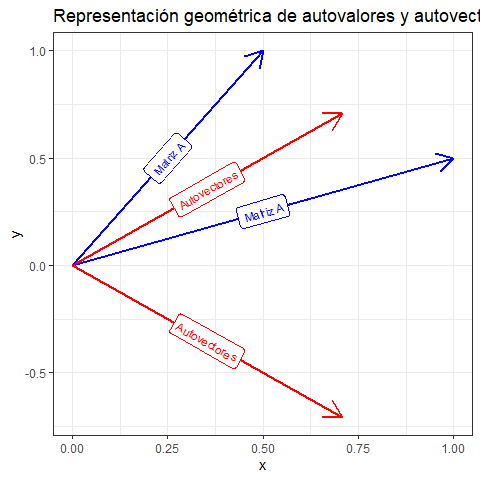
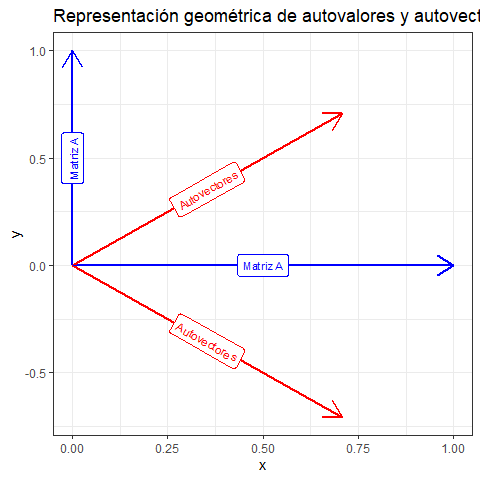
:zap: autovectores gráficamente

diff --git a/01_autovalores_autovectores/01_autovalores_autovectores.md b/01_autovalores_autovectores/01_autovalores_autovectores.md
@@ -27,22 +27,25 @@ A x−λ x = 0
 
 ``` r
 A <- t(matrix(c(0.5, 1, 1, 0.5), nrow = 2, ncol = 2))
+
+A <- t(matrix(c(0, 1, 1, 0), nrow = 2, ncol = 2))
+
 A
 ```
 
     ##      [,1] [,2]
-    ## [1,]  0.5  1.0
-    ## [2,]  1.0  0.5
+    ## [1,]    0    1
+    ## [2,]    1    0
 
 Si λ = 1 =\> A - 1 \* I :
 
     ##      [,1] [,2]
-    ## [1,] -0.5  1.0
-    ## [2,]  1.0 -0.5
+    ## [1,]   -1    1
+    ## [2,]    1   -1
 
 Calculando el determinante \| A − λ I \|
 
-    ## [1] -0.75
+    ## [1] 0
 
 No es igual a 0, con lo cual λ = 0 no es un autovalor de la matriz A.
 
@@ -54,7 +57,7 @@ autovalores <- eigen(A)$values
 autovalores
 ```
 
-    ## [1]  1.5 -0.5
+    ## [1]  1 -1
 
 Notar que si se hace:
 
@@ -95,34 +98,37 @@ XL2 = autovectores[1,] * autovalores[2]
 print(XL1)
 ```
 
-    ## [1] 1.06066 1.06066
+    ## [1] 0.7071068 0.7071068
 
 ``` r
 print(AX2)
 ```
 
-    ##         [,1]
-    ## [1,] 1.06066
-    ## [2,] 1.06066
+    ##           [,1]
+    ## [1,] 0.7071068
+    ## [2,] 0.7071068
 
 ``` r
 print(XL2)
 ```
 
-    ## [1] -0.3535534  0.3535534
+    ## [1] -0.7071068  0.7071068
 
 ``` r
 print(AX1)
 ```
 
     ##            [,1]
-    ## [1,] -0.3535534
-    ## [2,]  0.3535534
+    ## [1,] -0.7071068
+    ## [2,]  0.7071068
 
 # Gráficamente:
 
+Se observa que la pendiente de los autovectores son los autovalores (1 y
+-1).
+
 ![](01_autovalores_autovectores_files/figure-gfm/unnamed-chunk-13-1.png)<!-- -->
 
-Incorporando el límite en R+
+Imponiendo una restricción a valores positivos:
 
 ![](01_autovalores_autovectores_files/figure-gfm/unnamed-chunk-14-1.png)<!-- -->
